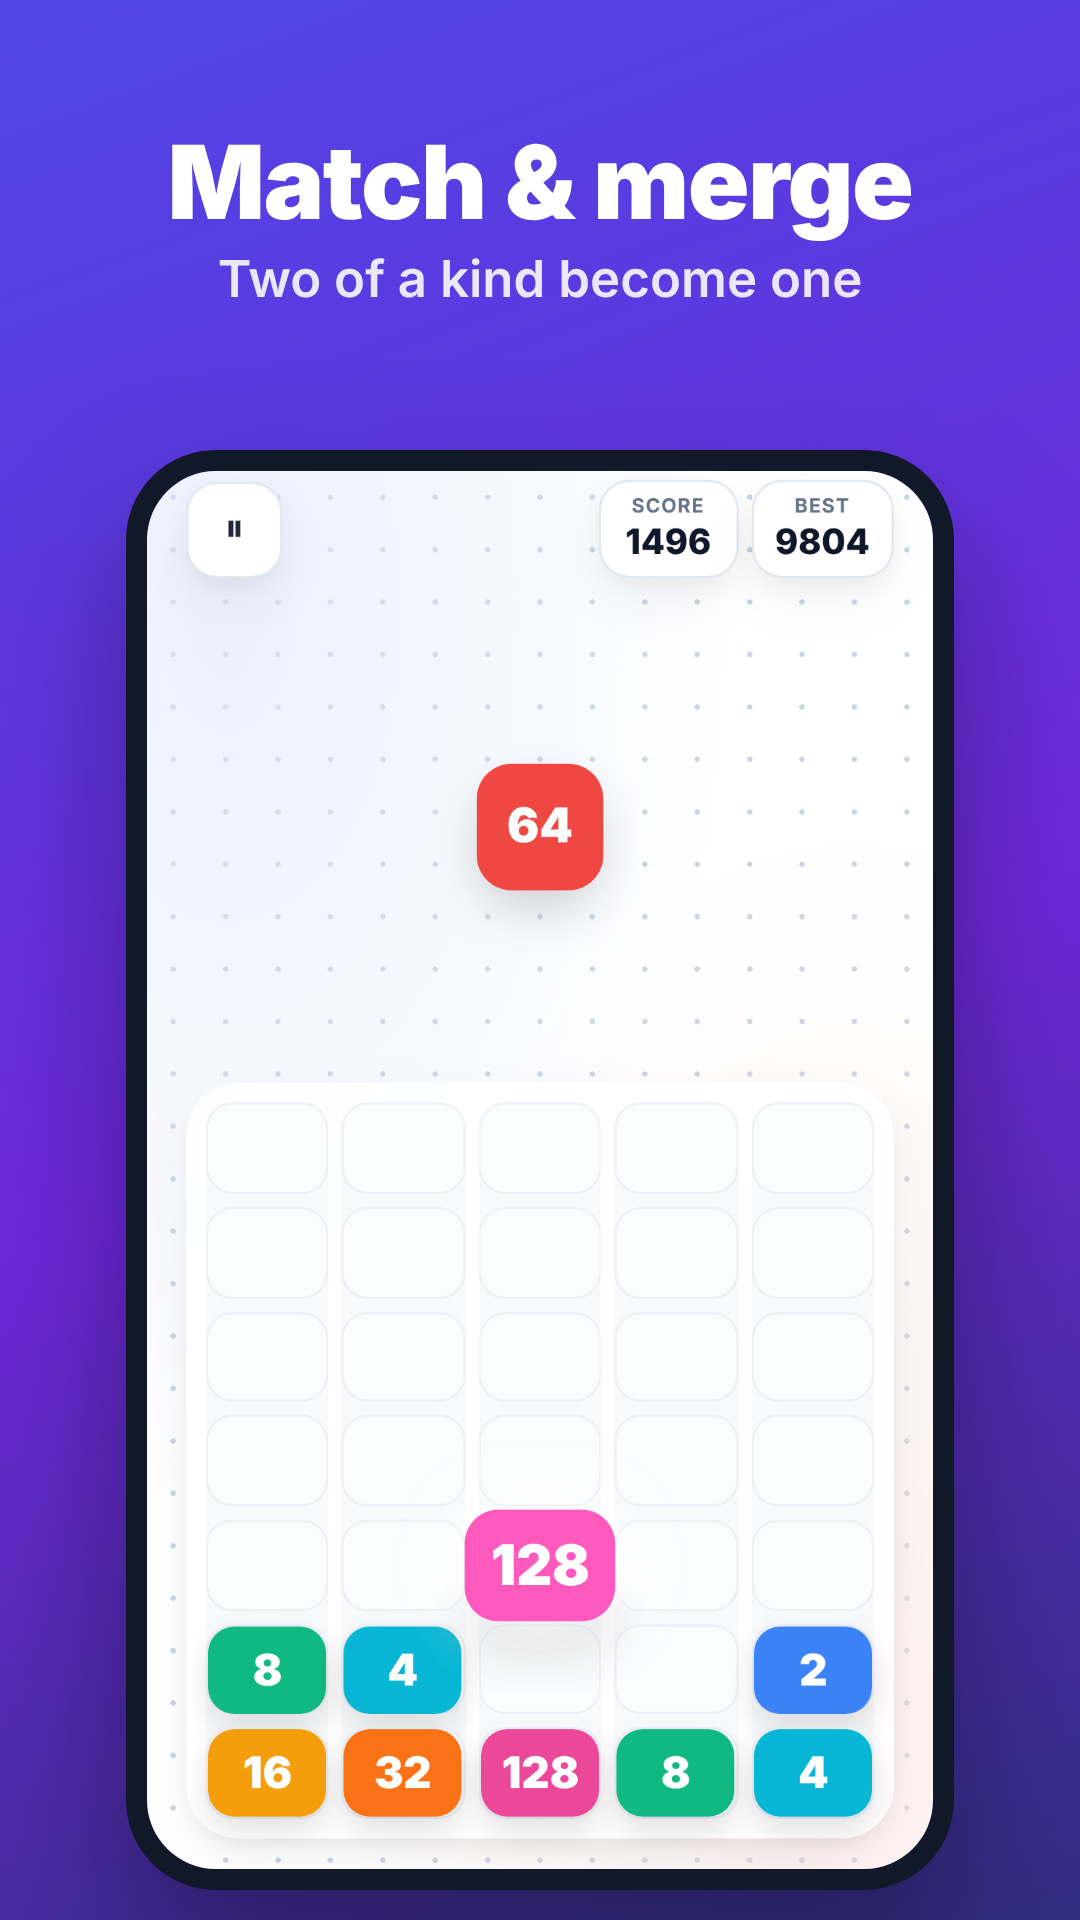
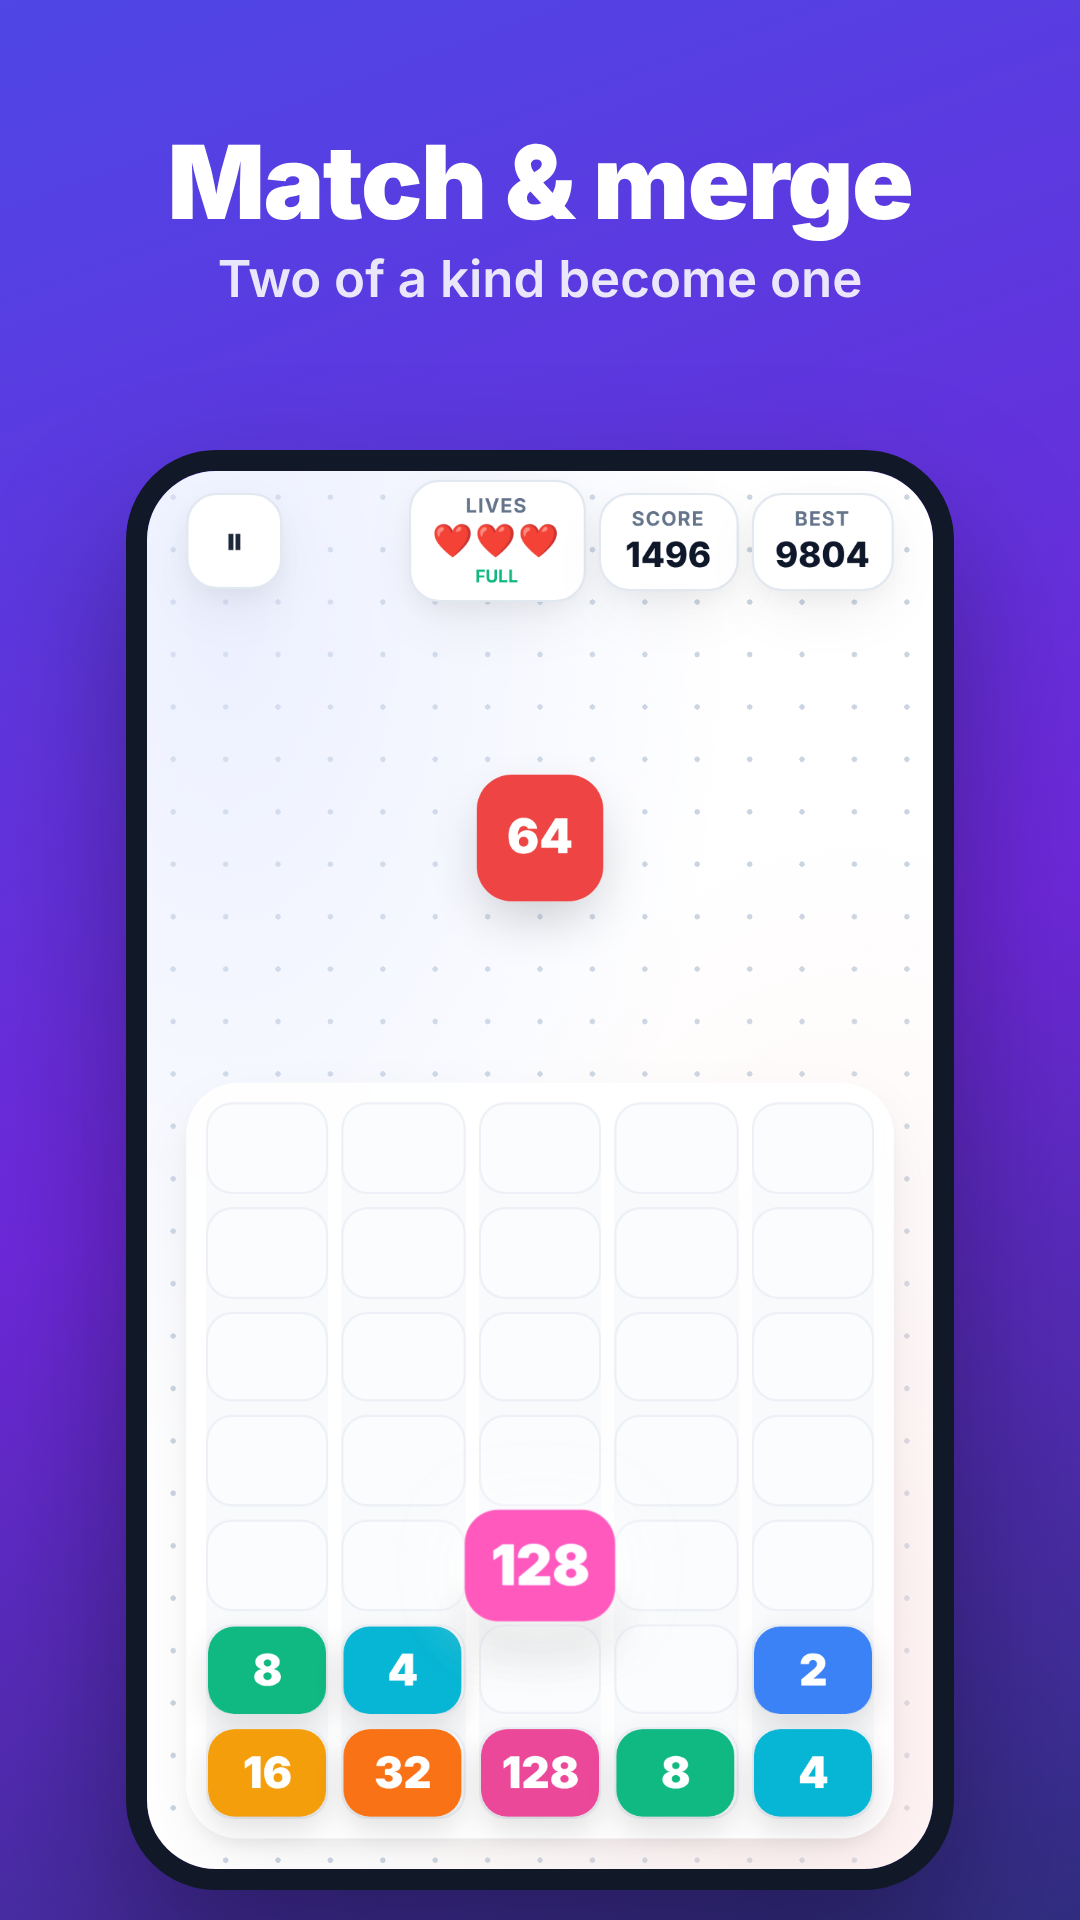
Keep the lives system (CEO decision 24 Nov): listing and screenshots match
Removes the 'No lives to wait for' line from the listing draft and
re-makes the 6 store screenshots with the Lives card shown.

Claude-Session: https://claude.ai/code/session_01NJUEsUAmWTp2Tr3uh6x4iJ

diff --git a/store/listing.md b/store/listing.md
@@ -6,8 +6,9 @@ Package: com.games.drop2048 · Arabic and Hindi versions follow once English is 
 ## Read this first: ship the listing with a cleanup update, not alone
 The live build (1.1.0, from `main`) has two things a new listing would send players straight into:
 1. **An on-screen debug console** (green text on black, bottom of the screen, `#debug-box` in index.html) that covers the bottom row of the board. Seen in a headless run of `main` and `develop`.
-2. **A 3-lives system with a 15-minute refill** that stops play at 0 lives. This breaks the studio rule "no energy or lives that block playing".
-Recommendation: publish this listing together with a 1.2.0 that removes both (backlog items d-debug-off, d-nolives). The copy below already describes the game *without* lives. If the CEO wants the listing live sooner, delete the "No lives to wait for" line first so the listing stays truthful.
+2. **A 3-lives system with a 15-minute refill** that stops play at 0 lives.
+Recommendation: publish this listing together with 1.2.0, which hides the debug console (d-debug-off, done 23 Nov).
+CEO decision 24 Nov 2026: the lives system **stays as it is** (3 lives, 15-minute refill). The copy below makes no claim about lives or unlimited play, and the screenshots show the Lives card.
 CEO decision 23 Nov 2026: the timed mid-game interstitial (every 135 s of play, with a 3 s "Short Ad" warning) **stays**. Drop 2048 is endless with no levels, so there is no natural break between levels. The copy makes no claim about when ads appear.
 
 ## What competitors do (research 23 Nov 2026)
@@ -15,7 +16,7 @@ Looked at Drop the Number: Puzzle Merge, X2 Blocks: Number Block Puzzle, Drop Th
 - Titles follow one pattern: Drop / Number + Merge / Block + Puzzle, often with 2048. Our current title already covers drop, 2048, number, block and merge.
 - Selling points everyone uses: offline play, no time limit, leaderboards, "brain training", boosters.
 - **Top player complaints** (about 20 of ~32 visible reviews): too many ads, ads at start and at every milestone, unskippable long ads; then freezes after ads (about 6) and lost progress (about 4).
-- So our angle: **the calm, fair one**. No timer, nothing blocks you from playing, rewarded videos always optional. That is a promise we can keep and competitors can't easily copy.
+- So our angle: **the calm, fair one**. No timer, rewarded videos always optional. That is a promise we can keep and competitors can't easily copy.
 Rule check: no competitor names, icons or look reused; our colours (indigo + flat tiles on light grid) are our own.
 
 ## Title (max 30)
@@ -41,7 +42,6 @@ HOW IT WORKS
 
 WHY PLAYERS LIKE IT
 • No timer: take as long as you want over every drop
-• No lives to wait for: play as many games as you like
 • Clean, minimal look with bright, easy-to-read tiles
 • Plays offline
 • Short games that fit a coffee break, with your best score saved on your phone
@@ -51,7 +51,7 @@ Can you reach 2048, and then go past it?
 Made by Yebee Games, a small independent studio. Ideas or problems? Write to us from the Play Store page; we read every message.
 ```
 Notes:
-- The line "No lives to wait for" is only true after 1.2.0 (see top).
+- Removed 24 Nov: the line "No lives to wait for" (the lives system stays, CEO decision).
 - Avoided: "best", "#1", "free" claims, emoji spam, keyword stuffing, mentions of other games (Play metadata policy).
 - Keyword spread: 2048 ×3, merge ×4, number ×3, block ×4, puzzle ×1, drop ×4. Natural, not stuffed.
 

diff --git a/store/screenshots.md b/store/screenshots.md
@@ -18,7 +18,7 @@ Order matters: Play shows the first 2-3 in search, so the first three carry the 
 
 Honesty notes:
 - Boards are set up states made with the real game code and rendering (no painted tiles). Score numbers are illustrative of reachable play, not anyone's real record.
-- The frames hide the on-screen debug console and the Lives card, because the listing is meant to go live with 1.2.0, which removes both (backlog d-debug-off, d-nolives). **If 1.2.0 ships without those changes, re-make with `HIDE_FOR_1_2 = false` before publishing**, so the screenshots match the app.
+- Re-made 24 Nov with `HIDE_FOR_1_2 = false`: the frames show the Lives card, because the CEO decided to keep the lives system. The debug console is hidden by the game itself since 1.2.0.
 - Above 2048 the game has no tile colour yet (falls back to the "2" blue). Not shown; small item for Arjun (d-tile-colors) if we advertise "keep going".
 
 Later: Arabic and Hindi caption versions (same frames, translated captions), and a 7th shot of a new feature (e.g. daily challenge, d-retention) once it exists.
